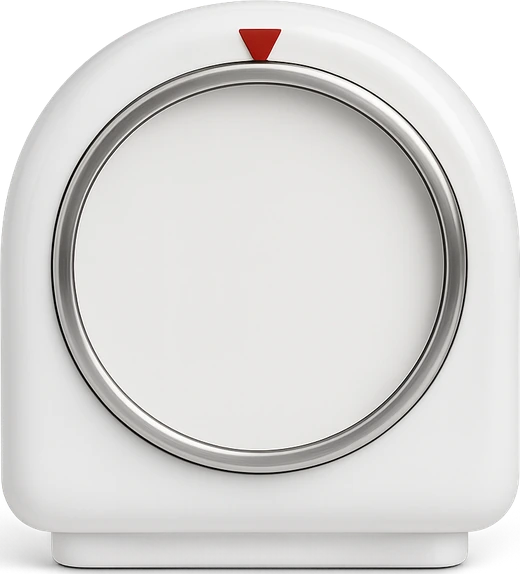
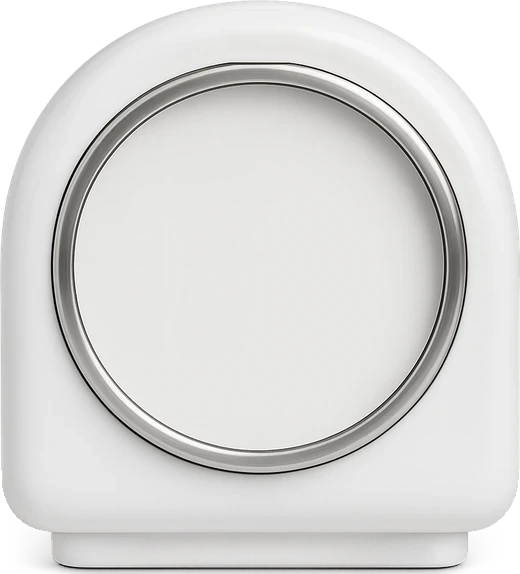
peek: the timer's time is back in Jost red digits, the red line half as thick; a vibrant drawn pointer whose tip rests on the dial's edge, and the floor shadow fades out instead of being cut off

Changed region(s): [[0.4615, 0.0296, 0.5538, 0.1185], [0.0, 0.9477, 0.1231, 1.0]]

diff --git a/peek/index.html b/peek/index.html
@@ -6,7 +6,7 @@
 <title>Peek — a character that lives in the interface</title>
 <link rel="preconnect" href="https://fonts.googleapis.com">
 <link rel="preconnect" href="https://fonts.gstatic.com" crossorigin>
-<link href="https://fonts.googleapis.com/css2?family=Schibsted+Grotesk:wght@400;500;600&family=Source+Serif+4:opsz,wght@8..60,400;8..60,600&family=Share+Tech+Mono&display=swap" rel="stylesheet">
+<link href="https://fonts.googleapis.com/css2?family=Schibsted+Grotesk:wght@400;500;600&family=Source+Serif+4:opsz,wght@8..60,400;8..60,600&family=Jost:wght@400;500&display=swap" rel="stylesheet">
 <!--
   Peek — a little 3D character that lives inside a UI, the way a game character
   lives in a level. The page's own elements are its platforms.
@@ -111,6 +111,7 @@ button, textarea { font: inherit; color: inherit; }
   white-space: nowrap; box-shadow: 0 6px 18px -8px rgba(0,0,0,.3), 0 0 0 1px #e7e7e5; pointer-events: none; }
 .name::after { content: ""; position: absolute; left: 50%; bottom: -5px; width: 10px; height: 10px; margin-left: -5px; background: #fff; transform: rotate(45deg); box-shadow: 1px 1px 0 0 #e7e7e5; }
 /* the timer: a live dial over the generated body, and the card it opens */
+.critter .ptr { position: absolute; pointer-events: none; filter: drop-shadow(0 .5px .6px rgba(120,10,0,.35)); }
 .critter .dial { position: absolute; pointer-events: none; border-radius: 50%; overflow: hidden; }
 .dial svg { position: absolute; inset: 0; width: 100%; height: 100%; }
 /* One silver piece, satin-finished like a real appliance knob: a fine brushed grain (the only part
@@ -1926,15 +1927,22 @@ function poolName(c) {
 const FACE = { cx: .499, cy: .468, r: .318 };   // where the plain face sits inside the steel bezel on timer.webp, as fractions of the (square) element
 /* The dial: one piece of silver. No numbers, no ticks — the whole face is a single domed, polished
    metal knob with a fine turned finish, the light sliding round it as it turns. The time floats on
-   top of it as if shown by magic: a red line round the edge from 0 to the minutes left. At 0 there's nothing on it but the metal. */
+   top of it as if shown by magic: big red digits (Jost) and a thin red line round the edge from 0 to
+   the minutes left. At 0 there's nothing on it but the metal. */
 function dialSVG() {
   const R = FACE.r * 1.13;   // out over the body's steel bezel too, so the bezel and the knob are one piece of metal
   const L = (FACE.cx - R) * 100, T = (FACE.cy - R) * 100, D = R * 200;
-  return `<div class="dial" style="left:${L}%;top:${T}%;width:${D}%;height:${D}%">
+  const pw = .074, ph = .06, tip = FACE.cy - R;   // the pointer, as fractions of the element; its tip rests on the dial's edge
+  const ptr = `<svg class="ptr" viewBox="0 0 40 32" style="left:${(FACE.cx - pw / 2) * 100}%;top:${(tip - ph) * 100}%;width:${pw * 100}%;height:${ph * 100}%">
+    <defs><linearGradient id="tPtr" x1="0" y1="0" x2="0" y2="1"><stop offset="0" stop-color="#ff4a33"/><stop offset="1" stop-color="#e8160a"/></linearGradient></defs>
+    <path d="M4.5 1 H35.5 Q39.5 1 37.4 4.4 L21.6 30.4 Q20 32 18.4 30.4 L2.6 4.4 Q.5 1 4.5 1 Z" fill="url(#tPtr)"/>
+    <path d="M5 2.2 H35" stroke="rgba(255,255,255,.45)" stroke-width="1" stroke-linecap="round"/></svg>`;
+  return ptr + `<div class="dial" style="left:${L}%;top:${T}%;width:${D}%;height:${D}%">
     <div class="knob"></div><div class="dome"></div>
     <svg viewBox="-50 -50 100 100">
       <defs><filter id="tGlow" x="-40%" y="-40%" width="180%" height="180%"><feGaussianBlur stdDeviation="1.1" result="b"/><feMerge><feMergeNode in="b"/><feMergeNode in="SourceGraphic"/></feMerge></filter></defs>
-      <path class="arc" d="" fill="none" stroke="#ff3b2f" stroke-width="2.4" stroke-linecap="round" filter="url(#tGlow)"/>
+      <path class="arc" d="" fill="none" stroke="#ff2a1a" stroke-width="1.2" stroke-linecap="round" filter="url(#tGlow)"/>
+      <text class="lcd" x="0" y="7" text-anchor="middle" font-size="21" font-weight="400" fill="#ff2a1a" filter="url(#tGlow)" font-family="Jost, Futura, system-ui, sans-serif" style="font-variant-numeric: tabular-nums" letter-spacing=".3"></text>
     </svg></div>`;
 }
 function timerLeft(T) { return T.running ? Math.max(0, (T.endAt - Date.now()) / 1000) : T.left; }
@@ -2033,7 +2041,8 @@ function tickTimers() {
     const knob = c.el.querySelector('.knob'); if (knob) knob.style.transform = `rotate(${(left / 60 * 6).toFixed(2)}deg)`;   // the sheen turns as the knob does
     { const deg = Math.min(359.9, left / 60 * 6), R = 43.5, a1 = deg * Math.PI / 180;   // the red line: from 0 round to the time left, floating on the face
       const d = deg < .2 ? '' : `M 0 ${-R} A ${R} ${R} 0 ${deg > 180 ? 1 : 0} 1 ${(Math.sin(a1) * R).toFixed(2)} ${(-Math.cos(a1) * R).toFixed(2)}`;
-      for (const arc of c.el.querySelectorAll('.arc')) if (arc.getAttribute('d') !== d) arc.setAttribute('d', d); }
+      for (const arc of c.el.querySelectorAll('.arc')) if (arc.getAttribute('d') !== d) arc.setAttribute('d', d);
+      const t = left < .5 ? '' : mmss(left); for (const lcd of c.el.querySelectorAll('.lcd')) if (lcd.textContent !== t) lcd.textContent = t; }
     // the red arc: from where 0 has turned to, back up to the pointer — the time left, at a glance
 
     if (T.running && left <= 0) { T.running = false; T.left = 0; if (!T.rung) { T.rung = true; ring(c); } }

diff --git a/CLAUDE.md b/CLAUDE.md
@@ -365,8 +365,9 @@ wind-up kitchen timer drops into the same pile — a generated 3D product render
 steel bezel and a blank face (`plush/timer.webp`; `FACE` is where that face sits in the square
 element; John rejected a cream/yellow first version). **The dial is one piece of silver** — no numbers, no ticks, no separate bezel: a single domed,
 polished knob drawn 1.13× `FACE.r` so it covers the body image's own steel ring (CSS: a satin brushed grain — an SVG noise tile, the only layer that turns as you wind —
-under fixed studio light; John found the conic/concentric version weird and too centred). The time floats on it as if by magic — a red line round the
-edge (no digits — John: get rid of the number) from 0 to the minutes left; at 0 there's only the metal. John rejected, in turn: numbered ticks,
+under fixed studio light; John found the conic/concentric version weird and too centred). The time floats on it as if by magic — big red digits in Jost (a Futura-like
+appliance face) and a thin red line round the edge; the red pointer is drawn (vibrant, its tip resting on
+the dial's edge) — the image's own was painted out, and its floor shadow tapers before the image edges from 0 to the minutes left; at 0 there's only the metal. John rejected, in turn: numbered ticks,
 an LED screen, and red light "shining through" micro-holes. **Tap it and it pops up big** — the timer is the whole
 interface, with one round play/pause button under it. Drag round the face to wind (the ring follows
 the finger, a tick per minute); let go and it starts. At zero it chimes (WebAudio, unlocked by the
